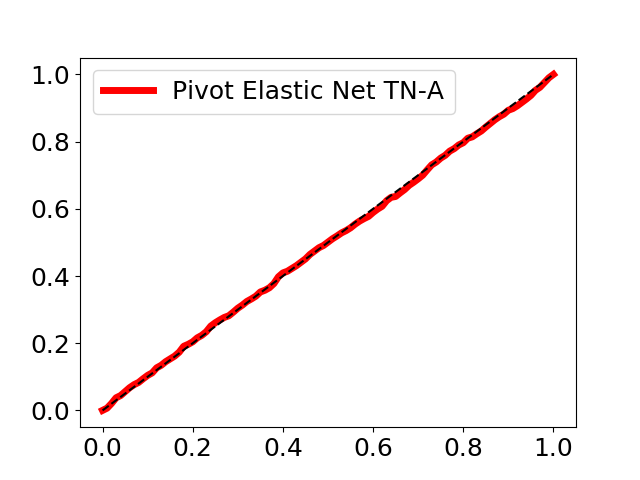
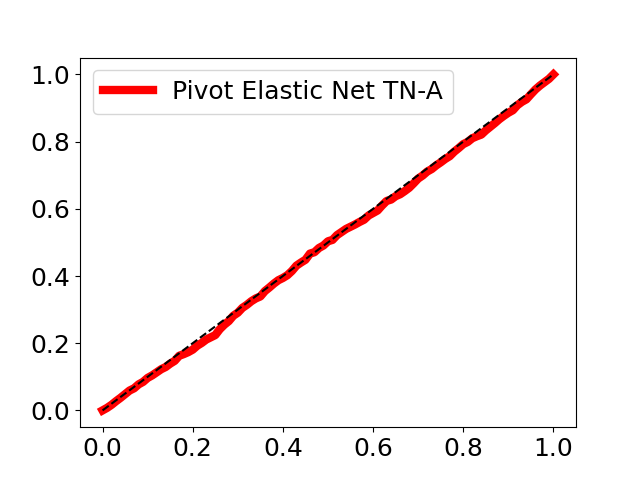
Update

diff --git a/ex1_pivot_lasso.py b/ex1_pivot_lasso.py
@@ -20,7 +20,7 @@ def run():
 
     X, y, true_y = gen_data.generate(n, p, beta_vec)
 
-    clf = linear_model.Lasso(alpha=lamda, fit_intercept=False, normalize=False)
+    clf = linear_model.Lasso(alpha=lamda, fit_intercept=False, normalize=False, tol=1e-10)
     clf.fit(X, y)
     bh = clf.coef_
 
@@ -31,8 +31,6 @@ def run():
 
     if len(A) == 0:
         return None
-
-    y = y.reshape((n, 1))
 
     rand_value = np.random.randint(len(A))
     j_selected = A[rand_value]
@@ -59,7 +57,7 @@ if __name__ == '__main__':
 
     plt.rcParams.update({'font.size': 18})
     grid = np.linspace(0, 1, 101)
-    plt.plot(grid, sm.distributions.ECDF(np.array(list_pivot))(grid), 'r-', linewidth=5, label='Pivot Lasso TN-A')
+    plt.plot(grid, sm.distributions.ECDF(np.array(list_pivot))(grid), 'r-', linewidth=6, label='Pivot Lasso TN-A')
     plt.plot([0, 1], [0, 1], 'k--')
     plt.legend()
     plt.tight_layout()

diff --git a/ex5_pivot_elastic_net.py b/ex5_pivot_elastic_net.py
@@ -26,7 +26,7 @@ def run():
     l1_ratio_for_elastic_net = lamda / (lamda + delta)
 
     regr = ElasticNet(alpha=alpha_for_elastic_net, l1_ratio=l1_ratio_for_elastic_net,
-                      fit_intercept=False, normalize=False)
+                      fit_intercept=False, normalize=False, tol=1e-10)
 
     regr.fit(X, y)
     bh = regr.coef_
@@ -58,7 +58,7 @@ if __name__ == '__main__':
 
     plt.rcParams.update({'font.size': 18})
     grid = np.linspace(0, 1, 101)
-    plt.plot(grid, sm.distributions.ECDF(np.array(list_pivot))(grid), 'r-', linewidth=5, label='Pivot Elastic Net TN-A')
+    plt.plot(grid, sm.distributions.ECDF(np.array(list_pivot))(grid), 'r-', linewidth=6, label='Pivot Elastic Net TN-A')
     plt.plot([0, 1], [0, 1], 'k--')
     plt.legend()
     plt.savefig('./results/pivot_elastic_net_TN_A.png', dpi=100)

diff --git a/parametric_lasso.py b/parametric_lasso.py
@@ -18,7 +18,7 @@ def compute_quotient(numerator, denominator):
 def parametric_lasso_cv(X, yz, lamda, b, n, p):
     yz_flatten = yz.flatten()
 
-    clf = linear_model.Lasso(alpha=lamda, fit_intercept=False, normalize=False)
+    clf = linear_model.Lasso(alpha=lamda, fit_intercept=False, normalize=False, tol=1e-10)
     clf.fit(X, yz_flatten)
     bhz = clf.coef_
 
@@ -109,7 +109,7 @@ def run_parametric_lasso_cv(X, lamda, n, p, threshold, a, b):
 def parametric_lasso(X, yz, lamda, b, n, p):
     yz_flatten = yz.flatten()
 
-    clf = linear_model.Lasso(alpha=lamda, fit_intercept=False, normalize=False)
+    clf = linear_model.Lasso(alpha=lamda, fit_intercept=False, normalize=False, tol=1e-10)
     clf.fit(X, yz_flatten)
     bhz = clf.coef_
 

diff --git a/parametric_elastic_net.py b/parametric_elastic_net.py
@@ -20,7 +20,7 @@ def parametric_elastic_net(X, yz, lamda, delta, b, n, p):
     l1_ratio_for_elastic_net = lamda / (lamda + delta)
 
     regr = ElasticNet(alpha=alpha_for_elastic_net, l1_ratio=l1_ratio_for_elastic_net,
-                      fit_intercept=False, normalize=False)
+                      fit_intercept=False, normalize=False, tol=1e-10)
 
     regr.fit(X, yz)
     bhz = regr.coef_

diff --git a/ex4_test_with_cross_validation_event.py b/ex4_test_with_cross_validation_event.py
@@ -375,7 +375,7 @@ def run():
 
         pivot = util.pivot_with_specified_interval(z_interval, etaj, etajTy, cov, 0)
 
-        p_value =  2 * min(1 - pivot, pivot)
+        p_value = 2 * min(1 - pivot, pivot)
 
         print('Feature', j_selected + 1, ' True Beta:', beta_vec[j_selected], ' p-value:', '{:.4f}'.format(p_value))
         print("==========")

diff --git a/ex2_p_value.py b/ex2_p_value.py
@@ -28,8 +28,6 @@ def run():
     if len(A) == 0:
         return None
 
-    y = y.reshape((n, 1))
-
     for j_selected in A:
         etaj, etajTy = util.construct_test_statistic(j_selected, XA, y, A)
 

diff --git a/ex3_confidence_interval.py b/ex3_confidence_interval.py
@@ -30,8 +30,6 @@ def run():
     if len(A) == 0:
         return None
 
-    y = y.reshape((n, 1))
-
     for j_selected in A:
         etaj, etajTy = util.construct_test_statistic(j_selected, XA, y, A)
 
